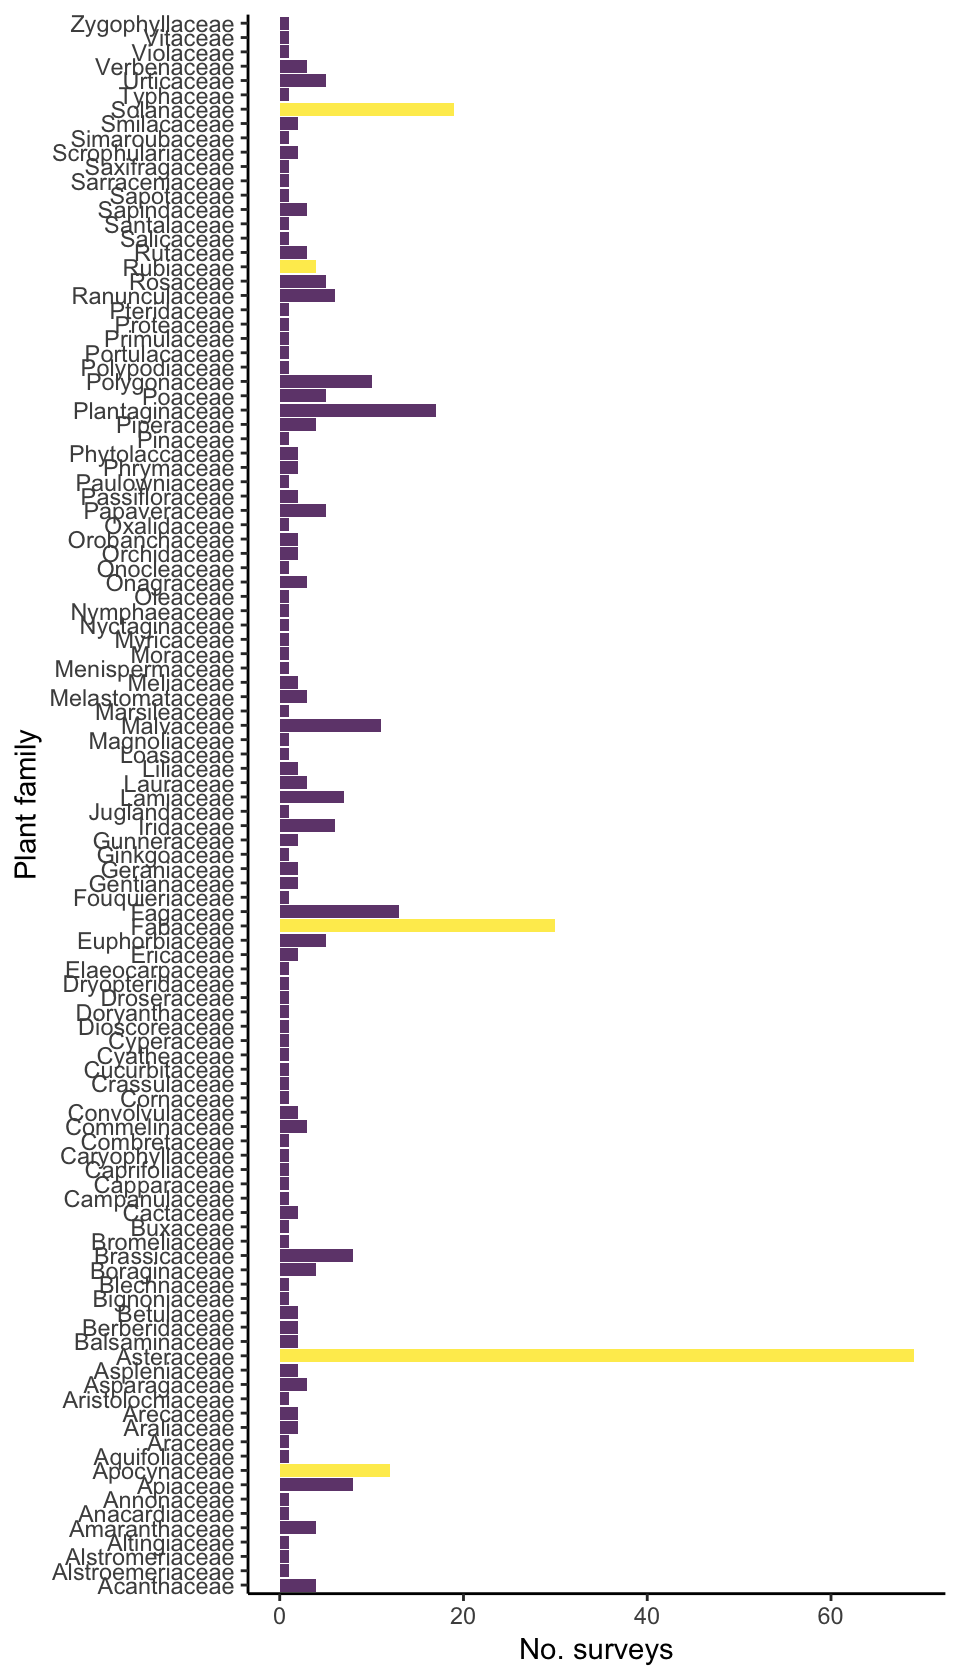
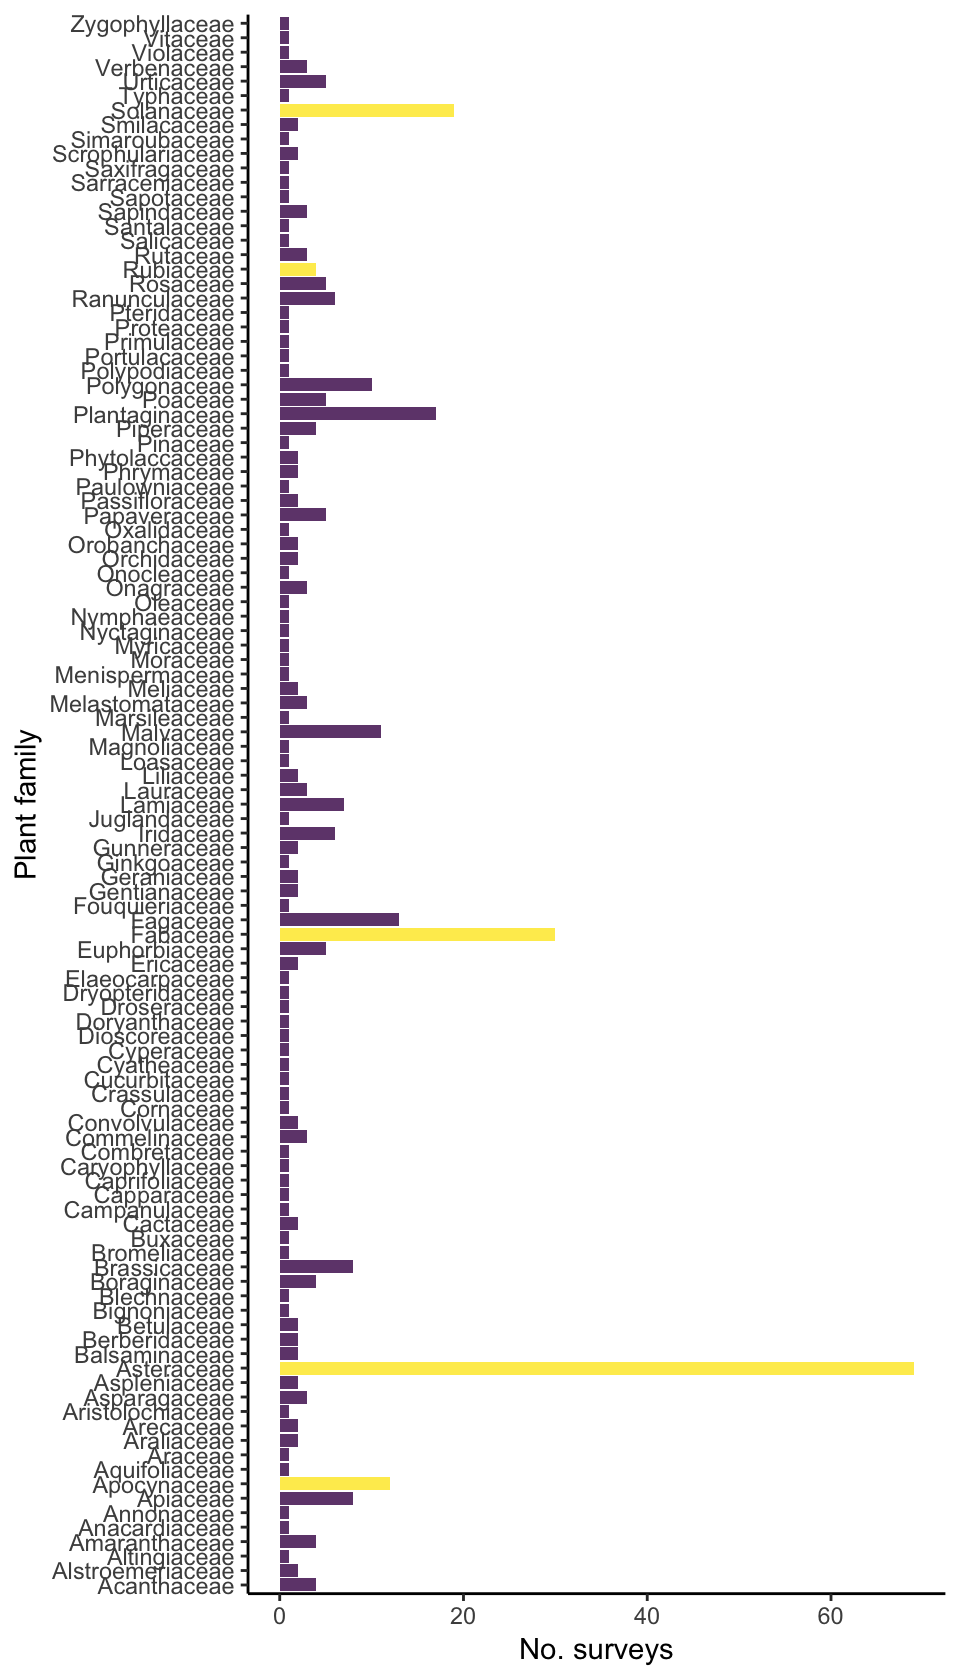
family fix

Changed region(s): [[0.0625, 0.0, 0.9688, 0.9595]]

diff --git a/status.html b/status.html
@@ -230,7 +230,7 @@ $(document).ready(function () {
 </div>
 
 
-<p>The Herbivory Variability Network has completed 385 surveys on 304 plant species from 110 plant families. These figures and tables update as new data are entered into our database, so check back often!</p>
+<p>The Herbivory Variability Network has completed 385 surveys on 304 plant species from 109 plant families. These figures and tables update as new data are entered into our database, so check back often!</p>
 <p>We have a three-scaled sampling approach:</p>
 <ol style="list-style-type: decimal">
 <li>Sampling one plant species from as many plant families as possible</li>
@@ -302,12 +302,12 @@ Sampling areas with at least one completed survey. We’re continually adding ne
 </tr>
 <tr class="odd">
 <td align="left">Alstroemeriaceae</td>
-<td align="left"><em>Bomarea chiriquina</em></td>
+<td align="left"><em>Alstroemeria aurea</em></td>
 <td align="left">1</td>
 </tr>
 <tr class="even">
-<td align="left">Alstromeriaceae</td>
-<td align="left"><em>Alstroemeria aurea</em></td>
+<td align="left">Alstroemeriaceae</td>
+<td align="left"><em>Bomarea chiriquina</em></td>
 <td align="left">1</td>
 </tr>
 <tr class="odd">
